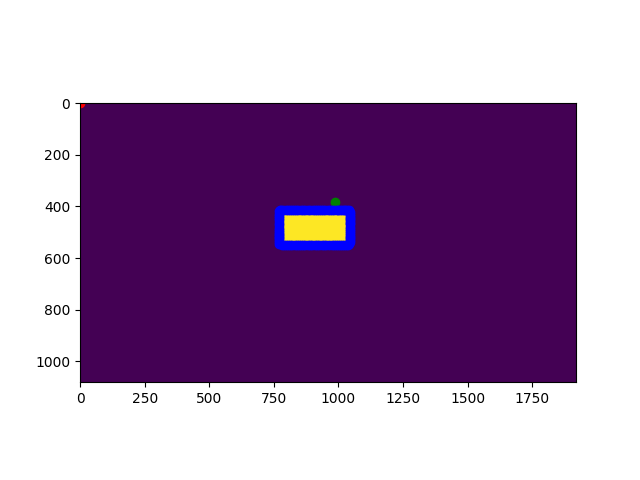
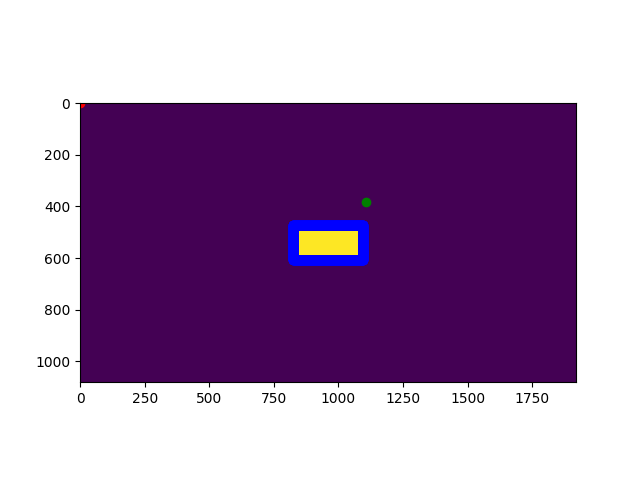
fix reward

Changed region(s): [[0.4062, 0.4062, 0.5938, 0.5625]]

diff --git a/Visual_Servoing/delta_array_sim.py b/Visual_Servoing/delta_array_sim.py
@@ -84,11 +84,11 @@ class DeltaArraySim:
         self.goal = np.zeros((8,8))
         self.finga_q = gymapi.Quat(0, 0.707, 0, 0.707)
         self.active_idxs = {}
-        self.KMeans = KMeans(n_clusters=100, random_state=69, n_init=10)
+        self.KMeans = KMeans(n_clusters=300, random_state=69, n_init='auto')
 
         """ Sim Util Vars """
         self.attractor_handles = {}
-        self.time_horizon = 152 # This acts as max_steps from Gym envs
+        self.time_horizon = 155 # This acts as max_steps from Gym envs
         # Max episodes to train policy for
         self.max_episodes = 10000001
         self.current_episode = 0
@@ -97,8 +97,8 @@ class DeltaArraySim:
         self.bd_pt_bool = True
         self.bd_pts = {}
         self.current_scene_frame = None
-        self.batch_size = 16
-        self.exploration_cutoff = 80
+        self.batch_size = 128
+        self.exploration_cutoff = 1000
         
         self.model = img_embed_model
         self.transform = transform
@@ -154,7 +154,8 @@ class DeltaArraySim:
     def set_block_pose(self, env_idx):
         """ Set the block pose to a random pose """
         # T = [0.13125, 0.1407285]
-        T = [0.11, 0.16]
+        # 0.0, -0.02165, 0.2625, 0.303107
+        T = [np.random.uniform(0.009, 0.21), np.random.uniform(0.005, 0.25)]
         self.block_com[env_idx][0] = np.array((T))
         block_p = gymapi.Vec3(*T, self.cfg[self.obj_name]['dims']['sz'] / 2 + 1.002)
         self.object.set_rb_transforms(env_idx, self.obj_name, [gymapi.Transform(p=block_p)])
@@ -165,7 +166,7 @@ class DeltaArraySim:
         frames = self.cam.frames(env_idx, self.cam_name)
         self.current_scene_frame = frames
 
-    def get_nearest_robot_and_crop(self, env_idx, final=False):
+    def get_nearest_robot_and_state(self, env_idx, final=False):
         """ 
         A helper function to get the nearest robot to the block and crop the image around it 
         Get camera image -> Segment it -> Convert boundary to cartesian coordinate space in mm ->
@@ -182,10 +183,11 @@ class DeltaArraySim:
 
         boundary = cv2.Canny(seg_map,100,200)
         boundary_pts = np.array(np.where(boundary==255)).T
-        kmeans = self.KMeans.fit(boundary_pts)
-        cluster_centers = kmeans.cluster_centers_
+        # kmeans = self.KMeans.fit(boundary_pts)
+        # cluster_centers = kmeans.cluster_centers_
         
-        self.bd_pts[env_idx] = cluster_centers
+        # self.bd_pts[env_idx] = cluster_centers
+        self.bd_pts[env_idx] = boundary_pts
         idxs, neg_idxs = self.nn_helper.get_nn_robots(self.bd_pts[env_idx])
         idxs = np.array(list(idxs))
         min_idx = tuple(idxs[np.lexsort((idxs[:, 0], idxs[:, 1]))][0])
@@ -193,10 +195,16 @@ class DeltaArraySim:
         """ Single Robot Experiment. Change this to include entire neighborhood """
         if not final:
             self.active_idxs[env_idx] = {min_idx: np.array((0,0))} # Store the action vector as value here later :)
+        else:
+            # Use the same robot that was chosen initially.
+            min_idx = tuple(self.active_idxs[env_idx].keys())[0]
+
         # [self.active_idxs[idx]=np.array((0,0)) for idx in idxs]
 
         # finger_pos = self.nn_helper.robot_positions[min_idx].astype(np.int32)
         # crop = seg_map[finger_pos[0]-112:finger_pos[0]+112, finger_pos[1]-112:finger_pos[1]+112]
+        # plt.imshow(crop)
+        # plt.show()
         # # crop = cv2.resize(crop, (224,224))
         # cols = np.random.rand(3)
         # crop = np.dstack((crop, crop, crop))*cols
@@ -228,7 +236,7 @@ class DeltaArraySim:
         """
         init_bd_pts = self.bd_pts[env_idx]
         self.get_scene_image(env_idx)
-        self.final_state = self.get_nearest_robot_and_crop(env_idx, final=True)
+        self.final_state = self.get_nearest_robot_and_state(env_idx, final=True)
 
         M2 = icp(init_bd_pts, self.bd_pts[env_idx], icp_radius=1000)
         theta = np.arctan2(M2[1, 0], M2[0, 0])
@@ -239,6 +247,7 @@ class DeltaArraySim:
         # block_l2_distance = np.linalg.norm(self.block_com[env_idx][1] - self.block_com[env_idx][0])
         tf = np.linalg.norm(M2[:2,3]) + abs(theta_degrees)
         nn_dist, xy = self.nn_helper.get_min_dist(self.bd_pts[env_idx], self.active_idxs[env_idx])
+        print(tf, nn_dist)
         return tf, nn_dist
 
     def compute_reward(self, env_idx, t_step):
@@ -261,7 +270,7 @@ class DeltaArraySim:
         self.ep_rewards.append(self.ep_reward[env_idx])
         self.agent.logger.store(EpRet=self.ep_reward[env_idx], EpLen=1)
         # if env_idx == (self.scene.n_envs-1):
-        print(f"Iter: {self.current_episode}, Action: {self.action[env_idx]},Reward: {self.ep_reward[env_idx]}, Mean Reward: {np.mean(self.ep_rewards[-20:])}")
+        print(f"Iter: {self.current_episode}, Action: {self.action[env_idx]},Mean Reward: {np.mean(self.ep_rewards[-20:])}, Current Reward: {self.ep_reward[env_idx]}")
         self.active_idxs[env_idx].clear()
 
     def reset(self, env_idx, t_step, env_ptr):
@@ -273,7 +282,6 @@ class DeltaArraySim:
         """
         if t_step == 0:
             self.ep_reward[env_idx] = 0
-            self.set_block_pose(env_idx) # Reset block to initial pose
             self.get_scene_image(env_idx)
             self.set_all_fingers_pose(env_idx, pos_high=True) # Set all fingers to high pose
 
@@ -281,7 +289,7 @@ class DeltaArraySim:
                 for j in range(self.num_tips[1]):
                     self.scene.gym.set_attractor_target(env_ptr, self.attractor_handles[env_ptr][i][j], gymapi.Transform(p=self.finger_positions[i][j] + gymapi.Vec3(0, 0, 0), r=self.finga_q)) 
             
-            self.init_state[env_idx] = self.get_nearest_robot_and_crop(env_idx, final=False)
+            self.init_state[env_idx] = self.get_nearest_robot_and_state(env_idx, final=False)
 
             # self.action[env_idx], self.log_pi[env_idx] = self.agent.policy_nw.get_action(self.init_state[env_idx])
             # self.action[env_idx] = self.agent.rescale_action(self.action[env_idx].detach().squeeze(0).numpy())
@@ -296,7 +304,8 @@ class DeltaArraySim:
             for idx in self.active_idxs[env_idx].keys():
                 self.active_idxs[env_idx][idx] = 1000*self.action[env_idx] # Convert action to mm
                 self.scene.gym.set_attractor_target(env_ptr, self.attractor_handles[env_ptr][idx[0]][idx[1]], gymapi.Transform(p=self.finger_positions[idx[0]][idx[1]] + gymapi.Vec3(*self.action[env_idx], -0.47), r=self.finga_q)) 
-        elif t_step == 150:
+        elif t_step == self.time_horizon-3:
+            print("Hakuna")
             self.set_all_fingers_pose(env_idx, pos_high=True)
 
     def sim_test(self, env_idx, t_step, env_ptr):
@@ -326,11 +335,9 @@ class DeltaArraySim:
         if (t_step == 0):
             if self.current_episode < self.max_episodes:
                 self.current_episode += 1
-        if t_step in {0, 1, self.time_horizon-2}:
+        if t_step in {0, 1, self.time_horizon-3}:
             self.reset(env_idx, t_step, env_ptr)
-        elif t_step < self.time_horizon-2:
-            pass # Compute only quasi-static rewards
-        elif t_step == self.time_horizon-1:
+        elif t_step == self.time_horizon-2:
             self.compute_reward(env_idx, t_step)
 
             if self.agent.replay_buffer.size > self.batch_size:
@@ -338,6 +345,8 @@ class DeltaArraySim:
             # self.agent.update_policy_reinforce(self.log_pi[env_idx], self.ep_reward[env_idx])
 
             self.terminate(env_idx, t_step)
+        elif t_step == self.time_horizon - 1:
+            self.set_block_pose(env_idx) # Reset block to initial pose
 
     def test_step(self, env_idx, t_step, env_ptr):
         """ 
@@ -356,7 +365,7 @@ class DeltaArraySim:
                 for j in range(self.num_tips[1]):
                     self.scene.gym.set_attractor_target(env_ptr, self.attractor_handles[env_ptr][i][j], gymapi.Transform(p=self.finger_positions[i][j] + gymapi.Vec3(0, 0, 0), r=self.finga_q)) 
             
-            self.init_state[env_idx] = self.get_nearest_robot_and_crop(env_idx, final=False)
+            self.init_state[env_idx] = self.get_nearest_robot_and_state(env_idx, final=False)
             self.action[env_idx] = self.agent.test_policy(self.init_state[env_idx])
             self.set_nn_fingers_pose(env_idx, self.active_idxs[env_idx].keys())
         elif t_step == 1:

diff --git a/Visual_Servoing/utils/nn_helper.py b/Visual_Servoing/utils/nn_helper.py
@@ -41,8 +41,25 @@ class NNHelper:
             xy = boundary_pts[np.argmin(distances)]
         return min_dists, xy
 
+    def expand_hull(self, hull):
+        robot_radius = 21
+        expanded_hull_vertices = []
+        for simplex in hull.simplices:
+            v1, v2 = hull.points[simplex]
+            
+            edge_vector = v2 - v1
+            normal_vector = np.array([-edge_vector[1], edge_vector[0]])
+            normal_vector /= np.linalg.norm(normal_vector)
+            
+            expanded_v1 = v1 + robot_radius * normal_vector
+            expanded_v2 = v2 + robot_radius * normal_vector
+            expanded_hull_vertices.extend([expanded_v1, expanded_v2])
+
+        return ConvexHull(expanded_hull_vertices)
+
     def get_nn_robots(self, boundary_pts):
         hull = ConvexHull(boundary_pts)
+        hull = self.expand_hull(hull)
         A, b = hull.equations[:, :-1], hull.equations[:, -1:]
         idxs = set()
         eps = np.finfo(np.float32).eps
@@ -54,9 +71,9 @@ class NNHelper:
             else:
                 kdt_pos_copy = self.kdtree_positions.copy()
                 while np.all(kdt_pos_copy[idx] @ A.T + b.T < eps, axis=1):
-                    x,y = kdt_pos_copy[idx]
-                    idx2 = np.where(np.isclose(self.kdtree_positions[:,0], x) & np.isclose(self.kdtree_positions[:,1], y) )[0][0]
-                    neg_idxs.add((idx2//8, idx2%8))
+                    # x,y = kdt_pos_copy[idx]
+                    # idx2 = np.where(np.isclose(self.kdtree_positions[:,0], x) & np.isclose(self.kdtree_positions[:,1], y) )[0][0]
+                    # neg_idxs.add((idx2//8, idx2%8))
 
                     kdt_pos_copy = np.delete(kdt_pos_copy, idx, axis=0)
                     idx = spatial.KDTree(kdt_pos_copy).query((i,j))[1]

diff --git a/Visual_Servoing/main.py b/Visual_Servoing/main.py
@@ -26,7 +26,7 @@ device = torch.device("cuda:0")
 
 class DeltaArrayEnvironment():
     def __init__(self, yaml_path, run_no):
-        self.train_or_test = "test"
+        self.train_or_test = "train"
 
         gym = gymapi.acquire_gym()
         self.run_no = run_no
@@ -131,6 +131,7 @@ class DeltaArrayEnvironment():
             elif self.obj_name == 'rope':
                 self.object.set_rb_transforms(env_idx, self.obj_name, [object_transforms[env_idx]])
             self.fingers.set_all_fingers_pose(env_idx)
+            # self.fingers.set_block_pose(env_idx)
             # self.fiducial_lt.set_rb_transforms(env_idx, "fiducial_lt", [fiducial_lt[env_idx]])
             # self.fiducial_rb.set_rb_transforms(env_idx, "fiducial_rb", [fiducial_rb[env_idx]])
 
